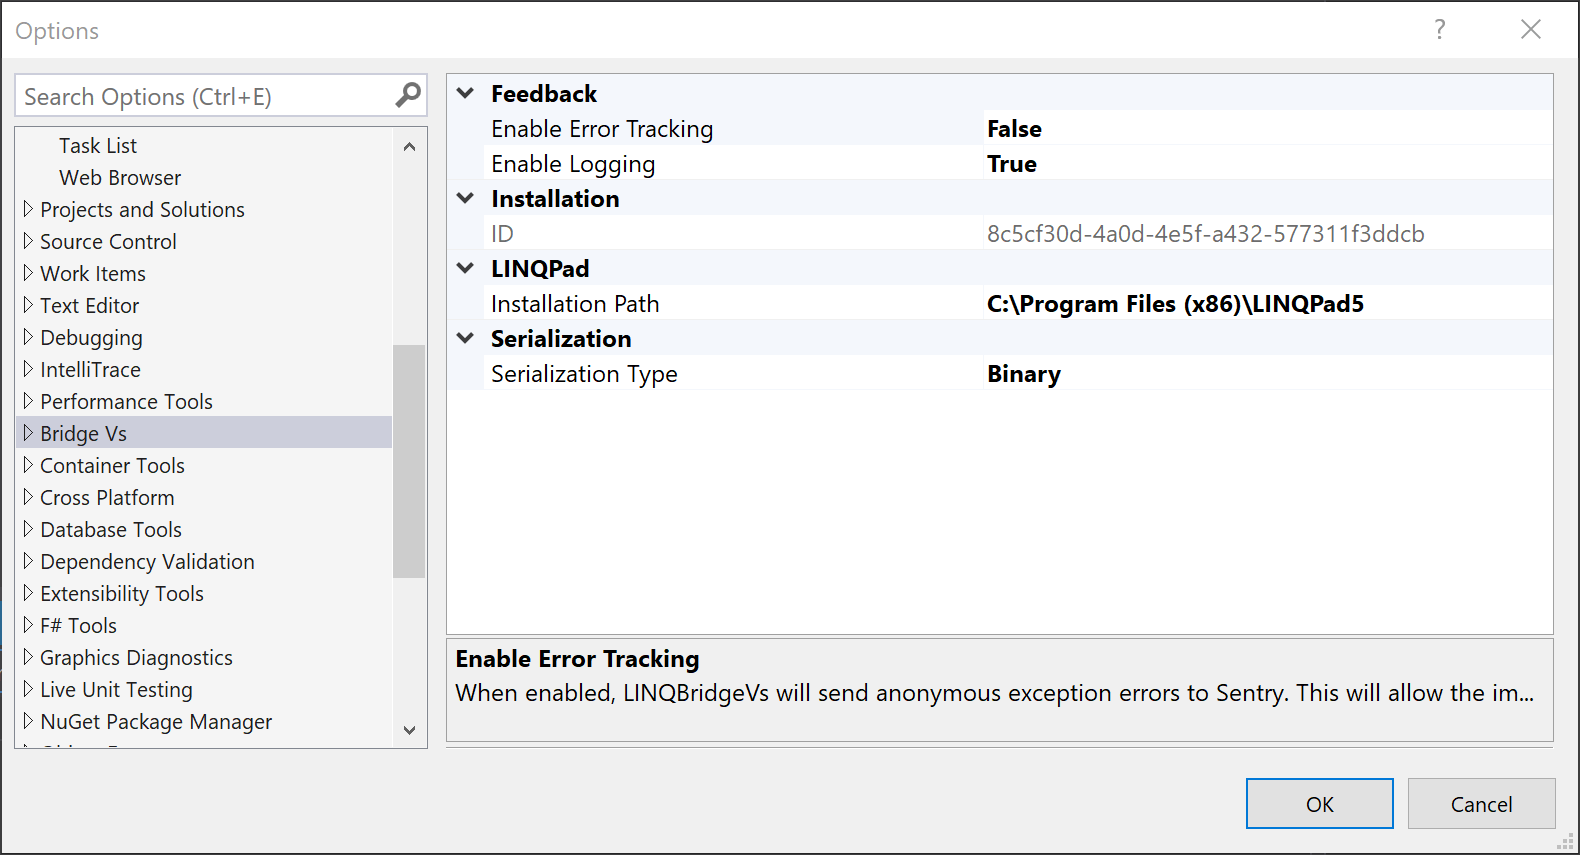
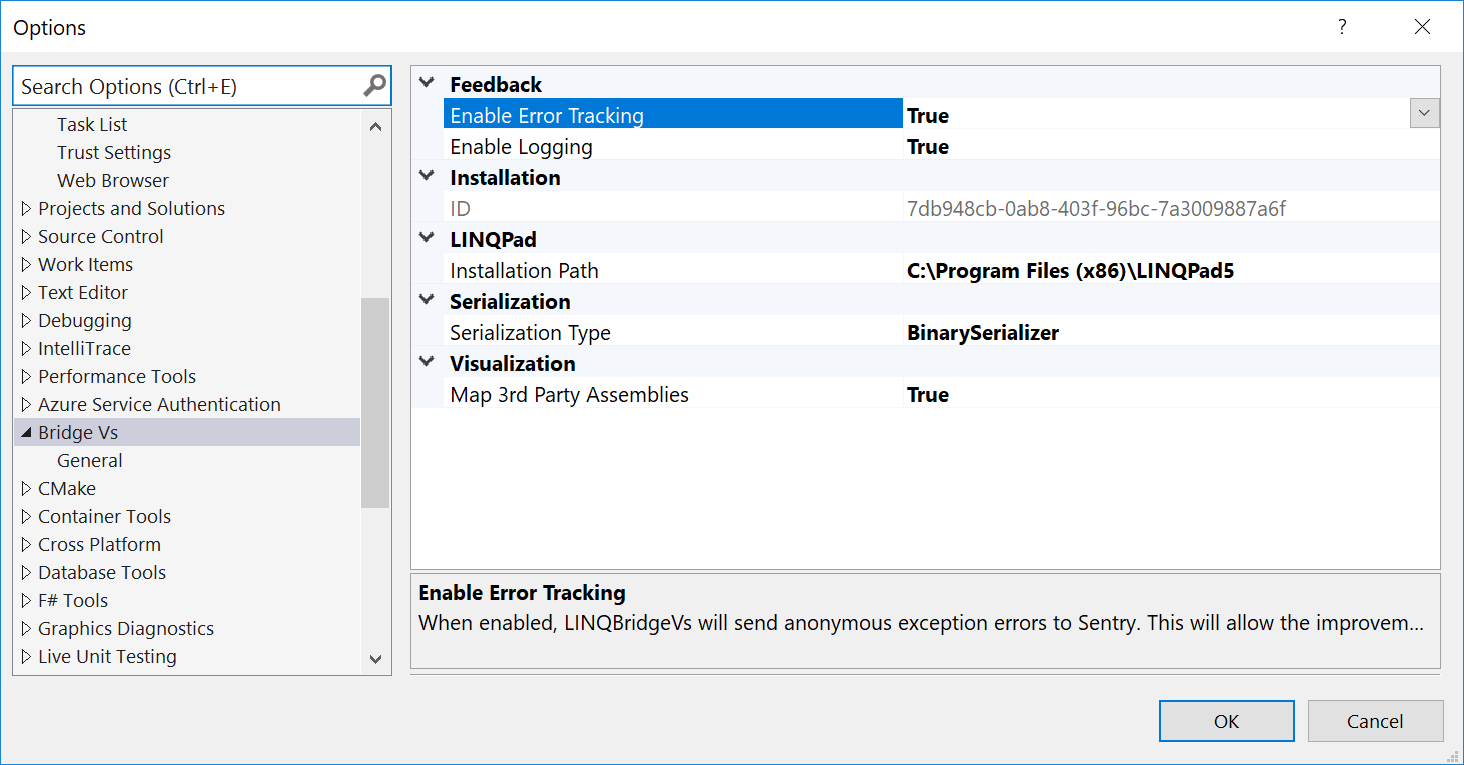
code cleanup
adds release notes in the manifest
updates the bridge vs option png
adds a link for feedback

diff --git a/Src/BridgeVs.VsPackage/Package/BridgeVsPackage.cs b/Src/BridgeVs.VsPackage/Package/BridgeVsPackage.cs
@@ -114,7 +114,7 @@ namespace BridgeVs.VsPackage.Package
             OleMenuCommand menuItemGettingStarted = new OleMenuCommand((s, e) => System.Diagnostics.Process.Start("https://github.com/codingadventures/LINQBridgeVs#getting-started"), gettingStarted);
 
             CommandID sendFeedback = new CommandID(GuidList.GuidBridgeVsExtensionCmdSet, (int)PkgCmdIdList.CmdIdFeedback);
-            OleMenuCommand menuItemSendFeedback = new OleMenuCommand((s, e) => System.Diagnostics.Process.Start("https://github.com/codingadventures/LINQBridgeVs/issues"), sendFeedback);
+            OleMenuCommand menuItemSendFeedback = new OleMenuCommand((s, e) => System.Diagnostics.Process.Start("https://marketplace.visualstudio.com/items?itemName=codingadventures.linqbridgevs#review-details"), sendFeedback);
 
             mcs.AddCommand(menuItemEnable);
             mcs.AddCommand(menuItemDisable);
@@ -156,9 +156,10 @@ namespace BridgeVs.VsPackage.Package
             }
             catch (Exception e)
             {
-                _error = new Error();
-                _error.Body = $"{e.Message} %0A {e.StackTrace}";
-                _error.Title = "Error during installation. 1.4.6";
+                _error = new Error
+                {
+                    Body = $"{e.Message} %0A {e.StackTrace}", Title = "Error during installation. 1.4.6"
+                };
                 Exception innerException = e.InnerException;
                 while (innerException != null)
                 {
@@ -175,7 +176,7 @@ namespace BridgeVs.VsPackage.Package
 
             if (_error != null)
             {
-                var boxresult = MessageBox.Show($"Configuration unsuccessful. Do you want to open an issue on GitHub?", "LINQBridgeVs: Error during the configuration", MessageBoxButton.YesNo);
+                MessageBoxResult boxresult = MessageBox.Show($"Configuration unsuccessful. Do you want to open an issue on GitHub?", "LINQBridgeVs: Error during the configuration", MessageBoxButton.YesNo);
                 if (boxresult == MessageBoxResult.Yes)
                 {
                     System.Diagnostics.Process.Start($"https://github.com/codingadventures/LINQBridgeVs/issues/new?title={_error.Title}&body={_error.Body}");
@@ -186,7 +187,7 @@ namespace BridgeVs.VsPackage.Package
             if (_installationResult == null)
                 return;
 
-            var messageResult = MessageBox.Show("Do you want to send anonymous error reports to LINQBridgeVs?", "LINQBridgeVs: Error Tracking", MessageBoxButton.YesNo, MessageBoxImage.Question, MessageBoxResult.No);
+            MessageBoxResult messageResult = MessageBox.Show("Do you want to send anonymous error reports to LINQBridgeVs?", "LINQBridgeVs: Error Tracking", MessageBoxButton.YesNo, MessageBoxImage.Question, MessageBoxResult.No);
 
             _packageSettings.ErrorTrackingEnabled = messageResult == MessageBoxResult.Yes;
             _packageSettings.SaveSettingsToStorage();
